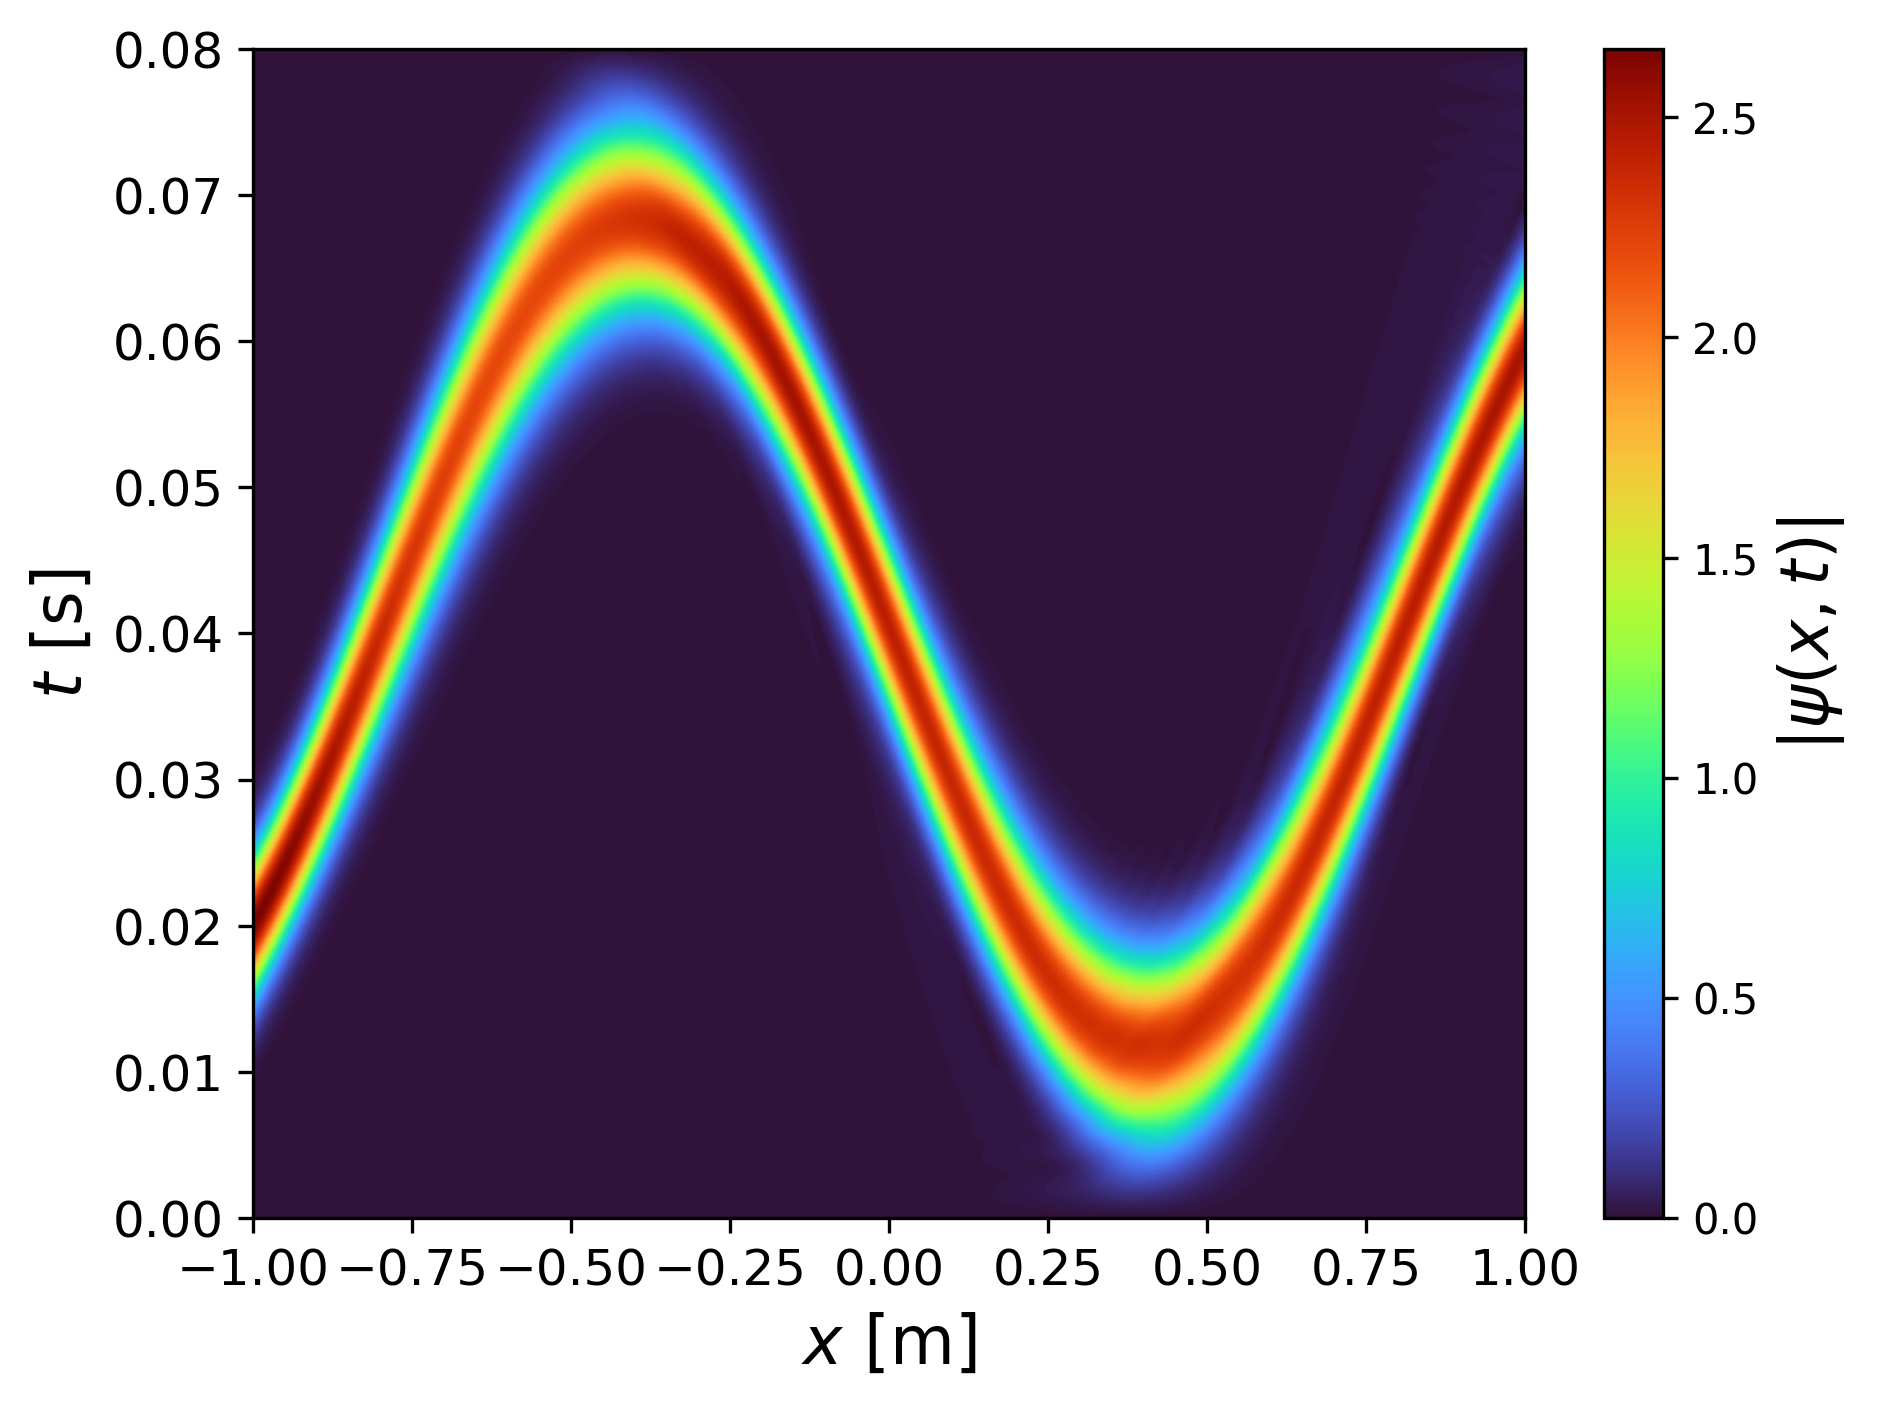
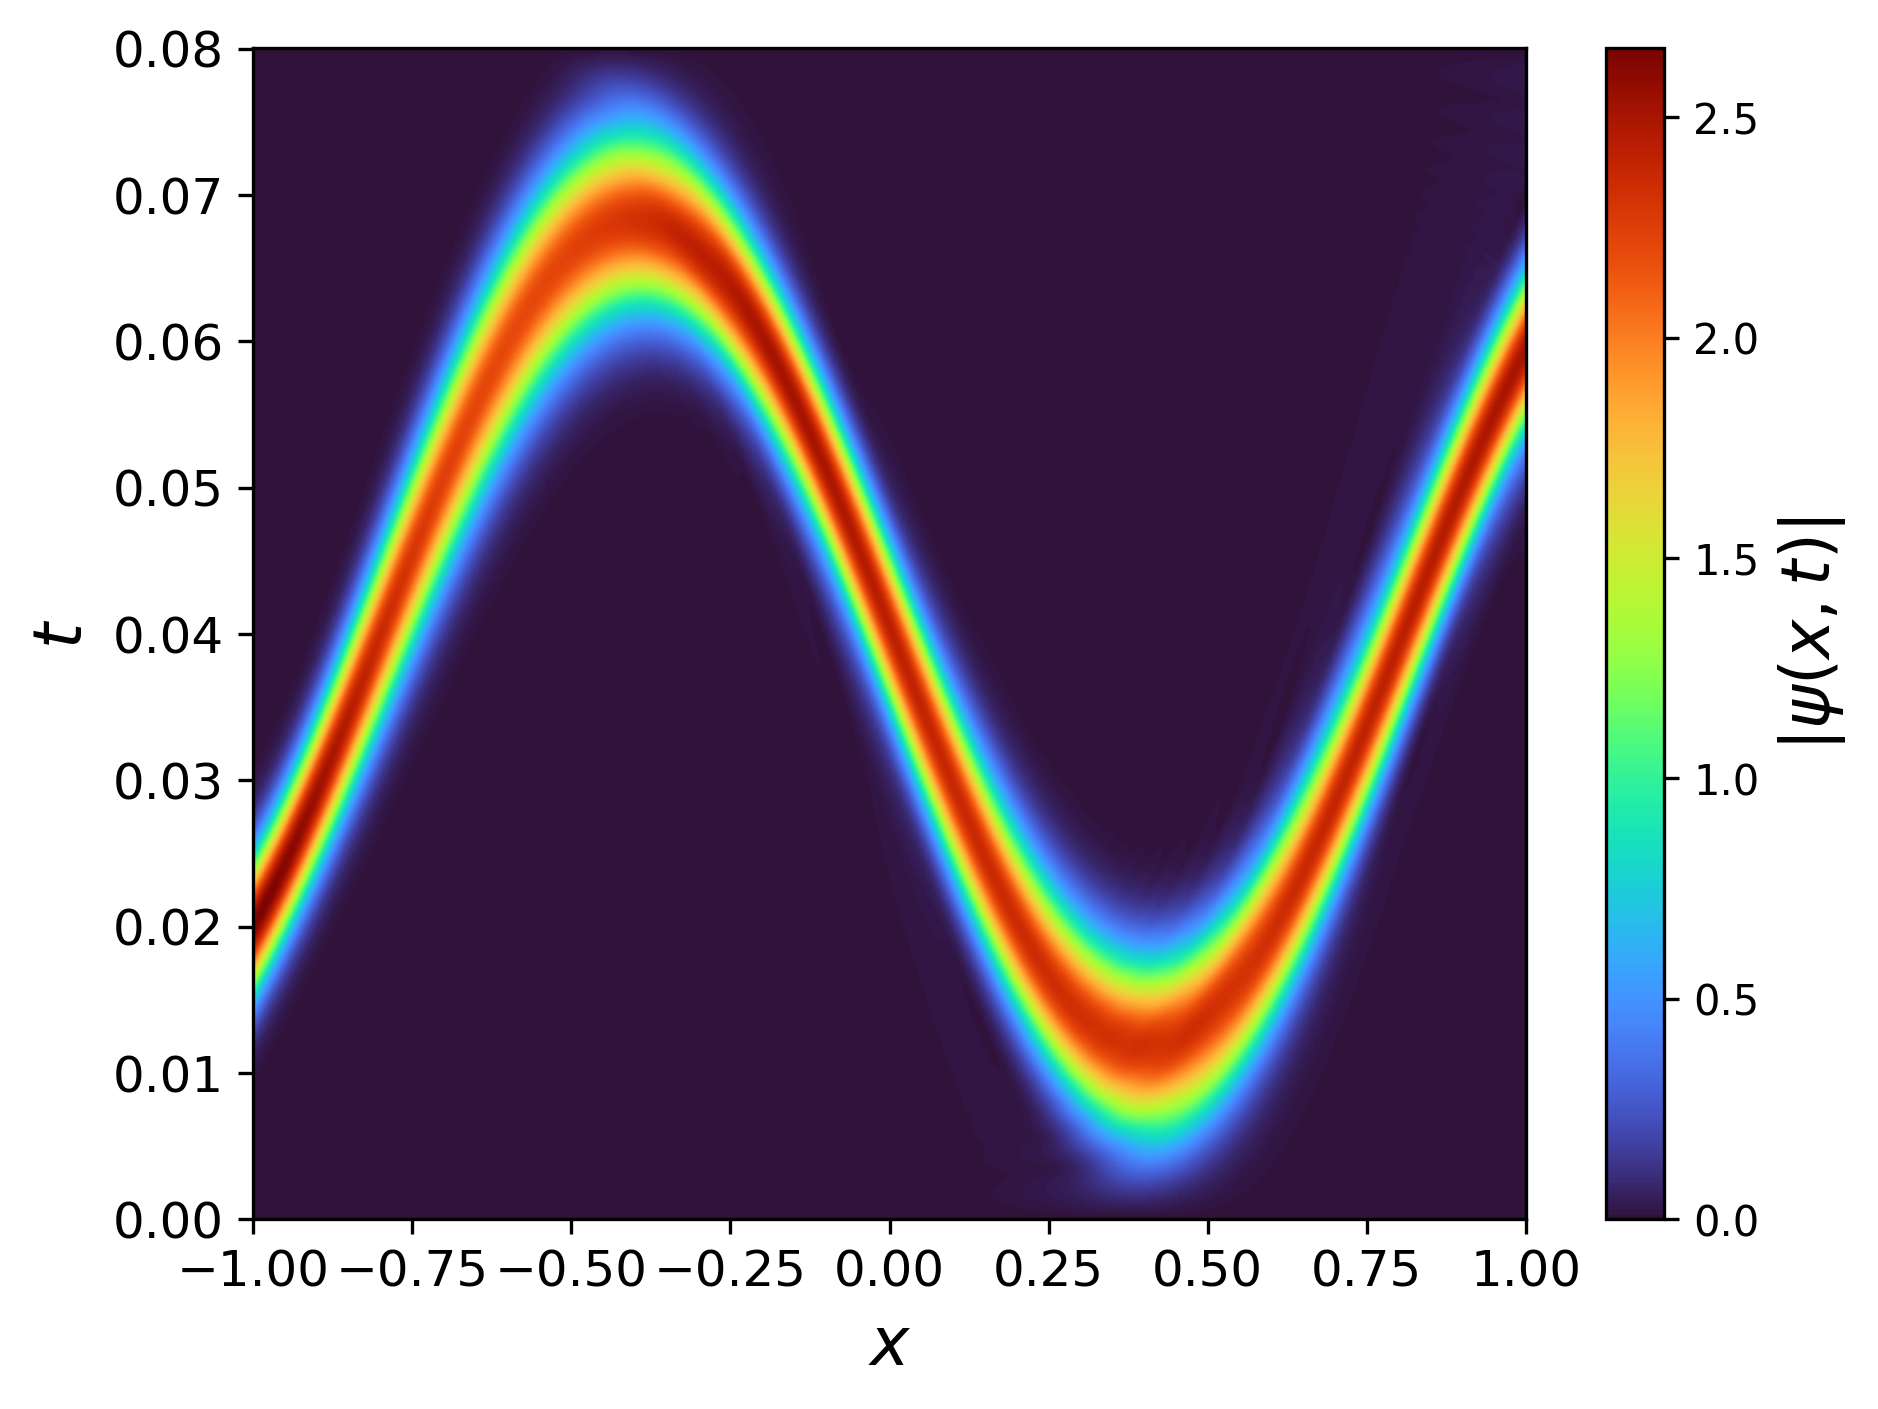
cpp cleaned up et trucs

diff --git a/q_6_3_c.py b/q_6_3_c.py
@@ -1,0 +1,126 @@
+import numpy as np
+import matplotlib.pyplot as plt
+import os
+import functions as fct
+
+
+executable = './Exe'  # Remove .exe for Mac
+repertoire = r"/Users/lilimouelle/Desktop/PHYSNUM/Exo6PhysNum"  # Modify for correct directory
+os.chdir(repertoire)
+output_name = "transmission_6_3"
+
+input_filename = "config_6_3.in"
+params = fct.read_in_file(input_filename)
+
+(tfin, xL, xR, xa, xb, 
+om0, V0, x0, n, sigma_norm, Nsteps, Nintervals) = fct.get_simulation_params(params)
+
+'''
+#Convergence delta t 
+xfin_list = []
+dt_list = []
+dt_list_square = []
+
+# Liste des valeurs de nsteps à tester
+#nsteps_values = np.linspace(600, 2000, 10, dtype=int)
+nsteps_values = [870,900,930,950,1000,1020,1050,1070,1250]
+
+for nsteps in nsteps_values:
+    dt = tfin / nsteps
+    dt_list.append(dt)
+    dt_list_square.append(dt*dt)
+    
+
+    
+    output_name = f"conv_nsteps_{nsteps}"
+
+    params = fct.read_in_file(input_filename)
+    params.update({
+        "tfin" : tfin,
+        "xL" : xL,
+        "xR" : xR,
+        "xa" : xa,
+        "xb" : xb,
+        "om0" : om0,
+        "V0" : V0,
+        "x0" : x0,
+        "n" : n,
+        "sigma_norm" : sigma_norm,
+        "Nsteps": nsteps,
+        "Nintervals": Nintervals,
+        "output": output_name
+    })
+
+    fct.run_simulation(executable, input_filename, output_name, **params)
+
+    # Lire les résultats
+    x, t, _, _, _, _, _, _, xmoy, _, _, _, _ = fct.read_quantum_data(f"outputs/{output_name}")
+
+    # Récupérer la position moyenne à t_fin
+    xfin_list.append(xmoy[-1])
+
+plt.figure()
+plt.plot(dt_list_square, xfin_list, marker='o', linestyle='-', color='blue', label=r"$\langle x \rangle(t_{fin})$")
+plt.xlabel(r"$(\Delta t)^2$ ", fontsize=16)
+plt.ylabel(r"$\langle x \rangle(t_{fin})$ ", fontsize=16)
+plt.grid(True)
+plt.xticks(fontsize=12)
+plt.yticks(fontsize=12)
+plt.legend(fontsize=14)
+plt.tight_layout()
+fct.save_figure("convergence_dt2_xfin.png")
+plt.show()
+'''
+
+
+#Convergence h_x
+xfin_list = []
+dx_list = []
+dx_list_square = []
+
+# Liste des valeurs de nsteps à tester
+Ninter_values = np.linspace(300, 1200, 10, dtype=int)
+
+for ninterval in Ninter_values:
+    dx = (xR - xL) / ninterval
+    dx_list.append(dx)
+    dx_list_square.append(dx*dx)
+    
+    output_name = f"conv_nx_{ninterval}"
+
+    params = fct.read_in_file(input_filename)
+    params.update({
+        "tfin" : tfin,
+        "xL" : xL,
+        "xR" : xR,
+        "xa" : xa,
+        "xb" : xb,
+        "om0" : om0,
+        "V0" : V0,
+        "x0" : x0,
+        "n" : n,
+        "sigma_norm" : sigma_norm,
+        "Nsteps": Nsteps,
+        "Nintervals": ninterval,
+        "output": output_name
+    })
+
+    fct.run_simulation(executable, input_filename, output_name, **params)
+
+    # Lire les résultats
+    x, t, _, _, _, _, _, _, xmoy, _, _, _, _ = fct.read_quantum_data(f"outputs/{output_name}")
+
+    # Récupérer la position moyenne à t_fin
+    xfin_list.append(xmoy[-1])
+
+plt.figure()
+plt.plot(dx_list_square, xfin_list, marker='o', linestyle='-', color='blue', label=r"$\langle x \rangle(t_{fin})$")
+plt.xlabel(r"$(\Delta x)^2$ ", fontsize=16)
+plt.ylabel(r"$\langle x \rangle(t_{fin})$ ", fontsize=16)
+plt.grid(True)
+plt.xticks(fontsize=12)
+plt.yticks(fontsize=12)
+plt.legend(fontsize=14)
+plt.tight_layout()
+fct.save_figure("convergence_dx2_xfin.png")
+plt.show()

diff --git a/q_6_3_a.py b/q_6_3_a.py
@@ -16,7 +16,7 @@ params = fct.read_in_file(input_filename)
 om0, V0, x0, n, sigma_norm, Nsteps, Nintervals) = fct.get_simulation_params(params)
 
 fct.run_simulation(executable, input_filename, output_name, **params)
-x, t, abs_psi, re_psi, im_psi, P_left, P_right, E, xmoy, x2moy, pmoy, p2moy = fct.read_quantum_data(f"outputs/{output_name}")
+x, t, abs_psi, re_psi, im_psi, P_left, P_right, E, xmoy, x2moy, pmoy, p2moy, uncertainty = fct.read_quantum_data(f"outputs/{output_name}")
 
 #QUESTION A
 
@@ -33,10 +33,13 @@ pclass = pmoy[0] * np.cos(om0 * t) - x0 * om0 * np.sin(om0 * t)
 plt.figure()
 plt.plot(t, xmoy, label=r"$\langle x(t) \rangle$")
 plt.plot(t, xclass, '--', label=r"$x_{\mathrm{class}}(t)$")
-plt.xlabel(r"t [s]")
-plt.ylabel(r"<x(t)> [m]")
+plt.xlabel(r"t", fontsize=16)
+plt.ylabel(r"<x(t)> ", fontsize=16)
+plt.xticks(fontsize=14)
+plt.yticks(fontsize=14)
+plt.tight_layout()
 plt.grid()
-plt.legend()
+plt.legend(fontsize=14)
 fct.save_figure("xmoy_t.png")
 plt.show()
 
@@ -44,10 +47,13 @@ plt.show()
 plt.figure()
 plt.plot(t, pmoy, label=r"$\langle p(t) \rangle$")
 plt.plot(t, pclass, '--', label=r"$p_{\mathrm{class}}(t)$")
-plt.xlabel(r"t [s]")
-plt.ylabel(r"<p(t)> [kg.m/s]")
+plt.xlabel(r"t ", fontsize=16)
+plt.ylabel(r"<p(t)> ", fontsize=16)
+plt.xticks(fontsize=14)
+plt.yticks(fontsize=14)
+plt.tight_layout()
 plt.grid()
-plt.legend()
+plt.legend(fontsize=14)
 fct.save_figure("pmoy_t.png")
 plt.show()
 
@@ -65,8 +71,8 @@ if x is not None:
     cbar = plt.colorbar(im)
     cbar.set_label(r"$|\psi(x,t)|$", fontsize=16)
 
-    plt.ylabel(r"$t$ [s]", fontsize=16)
-    plt.xlabel(r"$x$ [m]", fontsize=16)
+    plt.ylabel(r"$t$ ", fontsize=16)
+    plt.xlabel(r"$x$ ", fontsize=16)
     plt.xticks(fontsize=12)
     plt.yticks(fontsize=12)
     plt.tight_layout()
@@ -87,8 +93,8 @@ if x is not None:
     cbar = plt.colorbar(im)
     cbar.set_label(r"$Re(\psi(x,t))$", fontsize=16)
 
-    plt.ylabel(r"$t$ [s]", fontsize=16)
-    plt.xlabel(r"$x$ [m]", fontsize=16)
+    plt.ylabel(r"$t$ ", fontsize=16)
+    plt.xlabel(r"$x$ ", fontsize=16)
     plt.xticks(fontsize=12)
     plt.yticks(fontsize=12)
     plt.tight_layout()

diff --git a/Ex6.cpp b/Ex6.cpp
@@ -98,32 +98,6 @@ double prob(const vec_cmplx& psi, double xi, double xj, double dx, const std::ve
 }
 
 // TODO calculer l'energie
-
-/*
-double E(vec_cmplx psi, vec_cmplx dH, vec_cmplx aH, vec_cmplx cH, double dx)
-{
-    size_t N = psi.size();
-    vec_cmplx Hpsi(N, 0.0);
-
-    for (size_t i = 0; i < N; ++i) {
-        Hpsi[i] = dH[i] * psi[i];
-        if (i > 0) {
-            Hpsi[i] += aH[i - 1] * psi[i - 1];
-        }
-        if (i < N - 1) {
-            Hpsi[i] += cH[i] * psi[i + 1];  //possible que c'est cH[i+1]
-        }
-    }
-
-    double E = 0.0;
-    for (size_t i = 0; i < N - 1; ++i) {
-        E += 0.5 * dx * real(conj(psi[i]) * Hpsi[i] + conj(psi[i + 1]) * Hpsi[i + 1]);
-    }
-
-    return E;
-}
-*/
-
 double E(vec_cmplx psi, vec_cmplx dH, vec_cmplx aH, vec_cmplx cH, double dx)
 {
     double energy = 0.0;
@@ -158,19 +132,6 @@ double E(vec_cmplx psi, vec_cmplx dH, vec_cmplx aH, vec_cmplx cH, double dx)
 
 // TODO calculer xmoyenne
 
-/*
-double xmoy(vec_cmplx const& psi, vector<double> const& x, double dx)
-{
-    double xm = 0.0;
-    for (size_t i = 0; i < psi.size() - 1; ++i) {
-        complex<double> integrand_i = conj(psi[i]) * x[i] * psi[i];
-        complex<double> integrand_i1 = conj(psi[i + 1]) * x[i+1] * psi[i + 1];
-        xm += 0.5 * dx * real(integrand_i + integrand_i1);
-    }
-    return xm;
-}
-*/
-
 double xmoy(vec_cmplx const& psi, vector<double> const& x, double dx) 
 {
     double moy = 0.0;
@@ -192,18 +153,6 @@ double xmoy(vec_cmplx const& psi, vector<double> const& x, double dx)
 }
 
 // TODO calculer x.^2 moyenne
-/*
-double x2moy(vec_cmplx const& psi, vector<double> const& x, double dx)
-{
-    double xm2 = 0.0;
-    for (size_t i = 0; i < psi.size() - 1; ++i) {
-        complex<double> integrand_i = conj(psi[i]) * x[i] * x[i] * psi[i];
-        complex<double> integrand_i1 = conj(psi[i + 1]) * x[i+1] * x[i+1] * psi[i + 1];
-        xm2 += 0.5 * dx * real(integrand_i + integrand_i1);
-    }
-    return xm2;
-}
-*/
 
 double x2moy(vec_cmplx const& psi, vector<double> const& x, double dx) 
 {

diff --git a/q_6_3_b.py b/q_6_3_b.py
@@ -1,0 +1,67 @@
+import numpy as np
+import matplotlib.pyplot as plt
+import os
+import functions as fct
+
+
+executable = './Exe'  # Remove .exe for Mac
+repertoire = r"/Users/lilimouelle/Desktop/PHYSNUM/Exo6PhysNum"  # Modify for correct directory
+os.chdir(repertoire)
+output_name = "transmission_6_3"
+
+input_filename = "config_6_3.in"
+params = fct.read_in_file(input_filename)
+
+(tfin, xL, xR, xa, xb, 
+om0, V0, x0, n, sigma_norm, Nsteps, Nintervals) = fct.get_simulation_params(params)
+
+fct.run_simulation(executable, input_filename, output_name, **params)
+x, t, abs_psi, re_psi, im_psi, P_left, P_right, E, xmoy, x2moy, pmoy, p2moy, uncertainty = fct.read_quantum_data(f"outputs/{output_name}")
+hbar = 1
+
+P_total = P_left + P_right
+
+E_mean = np.mean(E)
+delta_E = np.abs(np.diff(E))  # longueur N-1
+t_mid = t[:-1] 
+
+plt.figure()
+plt.plot(t, P_total, label="Total probability")
+plt.xlabel(r"t", fontsize=16)
+plt.ylabel(r"Total Probability", fontsize=16)
+plt.ylim(0.98, 1.02)
+plt.xticks(fontsize=12)
+plt.yticks(fontsize=12)
+plt.tight_layout()
+plt.grid()
+plt.legend(fontsize=14)
+fct.save_figure("proba_totale.png")
+plt.show()
+
+plt.figure()
+plt.plot(t, E, label=r"⟨H(t)⟩")
+plt.axhline(y=E_mean, color='red', linestyle='--', label=fr"⟨H(0)⟩ = {E_mean:.3e}")
+plt.xlabel(r"t ", fontsize=16)
+plt.ylabel(r"Energy ", fontsize=16)
+plt.ylim(2000,3000)
+plt.xticks(fontsize=12)
+plt.yticks(fontsize=12)
+plt.tight_layout()
+plt.grid()
+plt.legend(fontsize=14)
+fct.save_figure("energie_moyenne_vs_t.png")
+plt.show()
+
+
+plt.figure()
+plt.plot(t, uncertainty, label=r"$⟨\Delta x(t)⟩ \cdot ⟨\Delta p(t)⟩$")
+plt.axhline(y=hbar/2, color='red', linestyle='--', label=r"$\hbar/2$")
+plt.xlabel(r"t ", fontsize=16)
+plt.ylabel(r"$⟨\Delta x(t)⟩ \cdot ⟨\Delta p(t)⟩$", fontsize=16)
+plt.xticks(fontsize=12)
+plt.yticks(fontsize=12)
+plt.tight_layout()
+plt.grid()
+plt.legend(fontsize=14)
+fct.save_figure("incertitude_vs_t.png")
+plt.show()

diff --git a/functions.py b/functions.py
@@ -116,6 +116,7 @@ def read_quantum_data(output_base):
         x2moy = obs[:, 5]    # Position carrée moyenne
         pmoy = obs[:, 6]     # Quantité de mouvement moyenne
         p2moy = obs[:, 7]    # Quantité de mouvement carrée moyenne
+        uncertainty = obs[:, 8] 
 
         psi_raw = np.loadtxt(f"{output_base}_psi2.out")
         Npoints = len(x)
@@ -126,11 +127,10 @@ def read_quantum_data(output_base):
         abs_psi = psi_raw[:, 0::3]
         re_psi = psi_raw[:, 1::3]  # => Re(ψ)
         im_psi = psi_raw[:, 2::3]  # => Im(ψ)
-        return x, t, abs_psi, re_psi, im_psi, P_left, P_right, E, xmoy, x2moy, pmoy, p2moy
+        return x, t, abs_psi, re_psi, im_psi, P_left, P_right, E, xmoy, x2moy, pmoy, p2moy, uncertainty
     except Exception as e:
         print(f"Error reading quantum data: {e}")
-        return None, None, None, None, None, None, None, None, None, None
-    
+        return None, None, None, None, None, None, None, None, None, None, None, None, None
 
 
 
